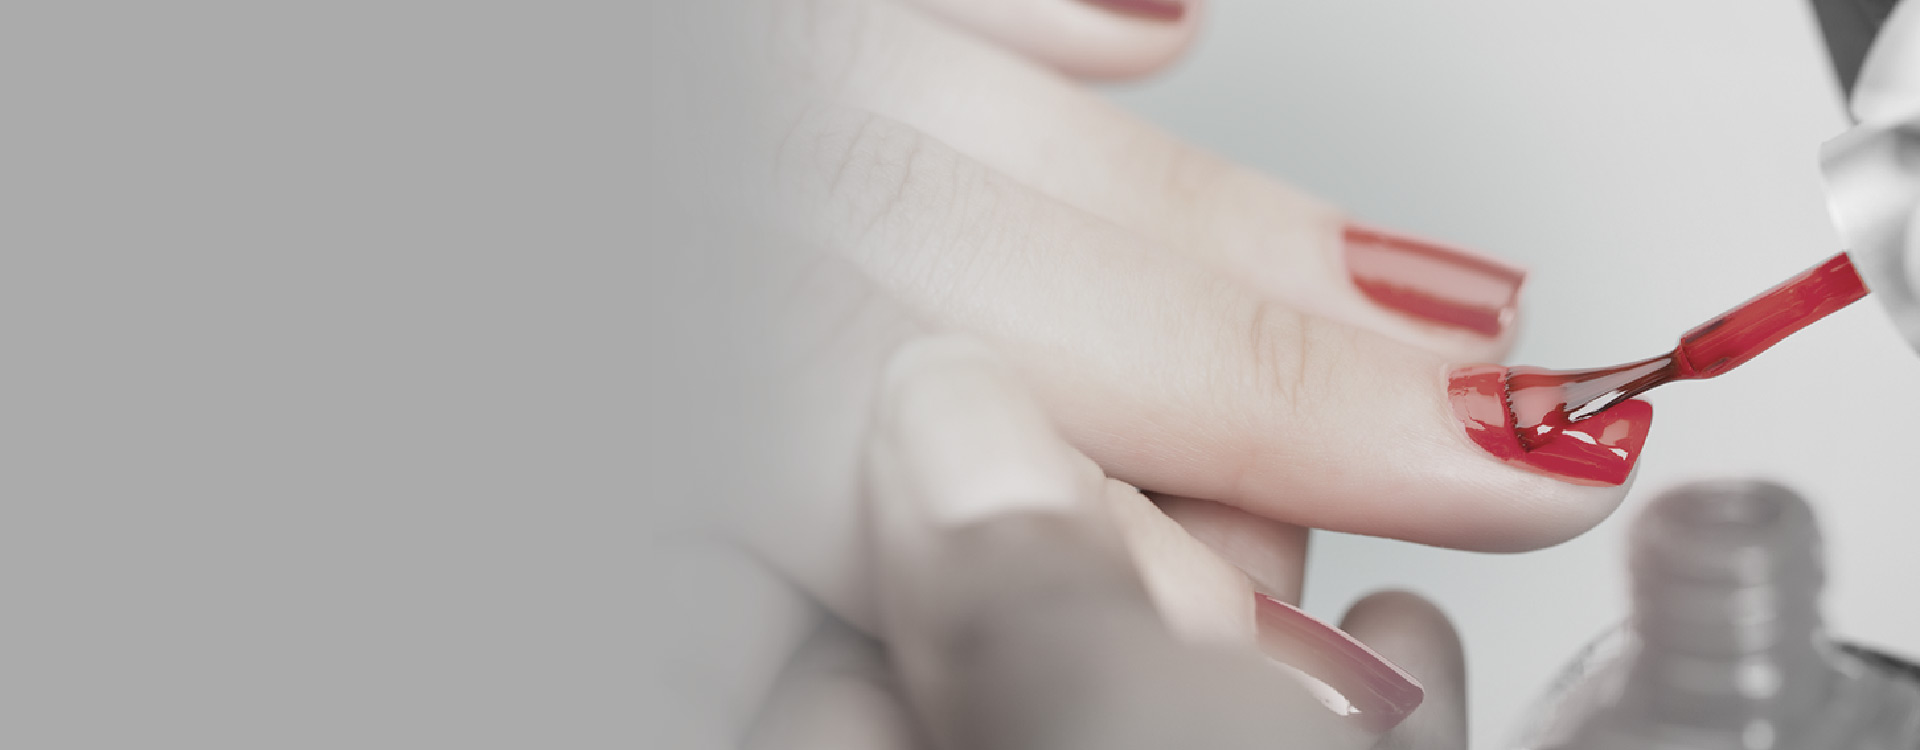
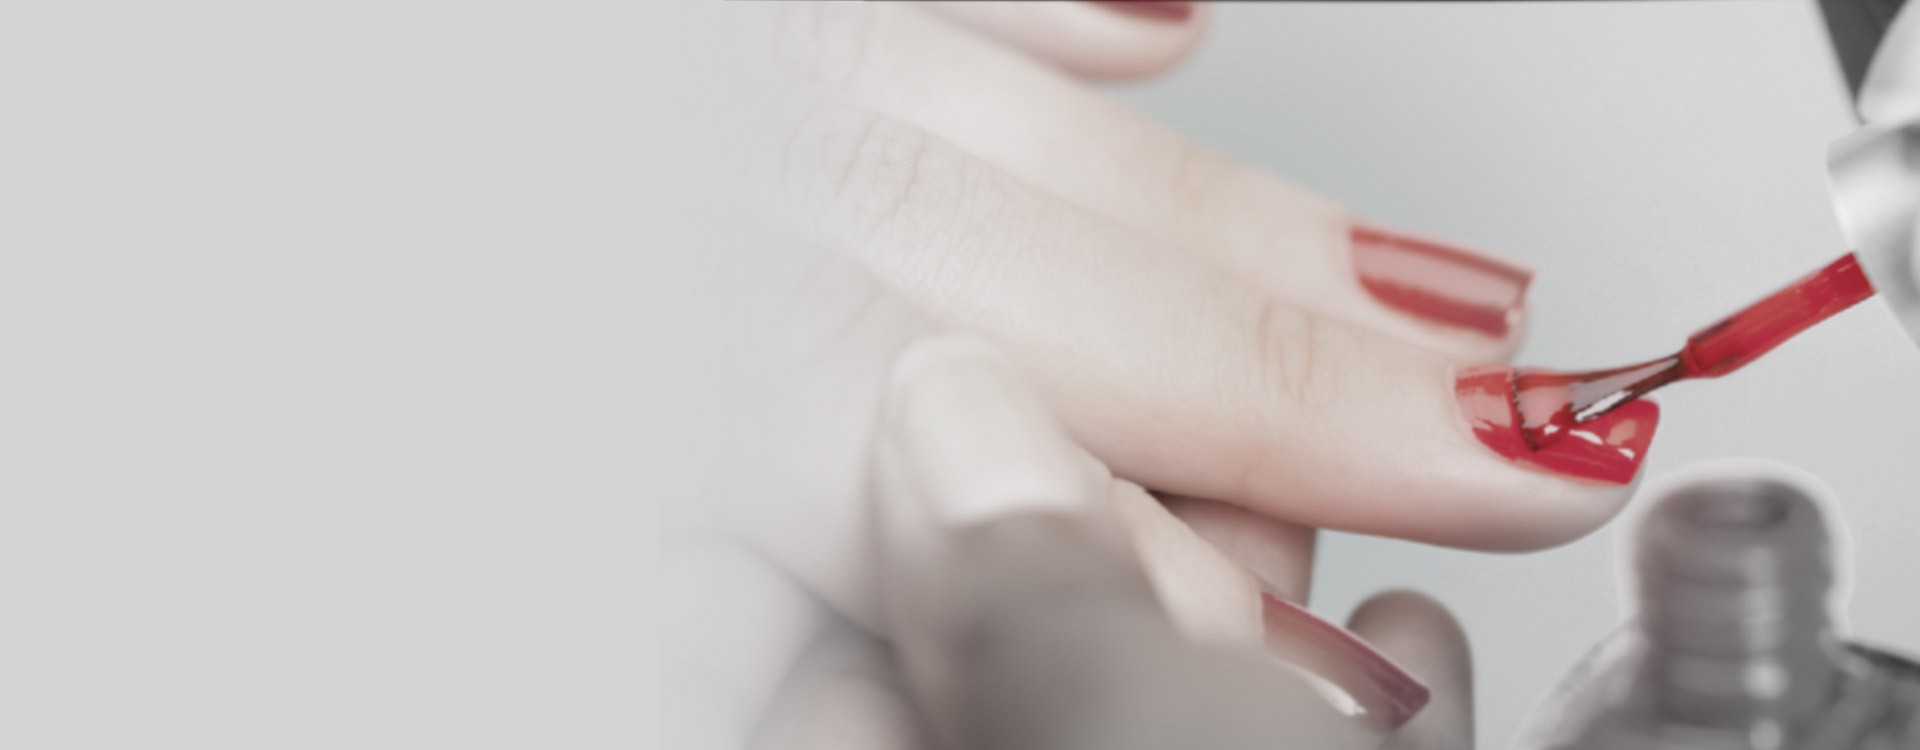
Created new organic page and styles

diff --git a/app/assets/stylesheets/services.scss b/app/assets/stylesheets/services.scss
@@ -62,18 +62,15 @@
 
 // Manicure & Pedicure Service Page
 #mani-pedi{
-  background-image: url('/assets/manicure-pedi-service-img2.jpg');
+  background-image: url('/assets/manicure-pedi-service-img.jpg');
   background-repeat: no-repeat;
   background-attachment: scroll;
   background-position: center;
   background-size: cover;
   height: 70vh;
   .mani-pedi-bg-text{
-    margin: 0 auto;
     h1{
       margin: 0px;
-      background: #fff;
-      padding: 25px 30px;
     }
   } 
 }
@@ -100,6 +97,49 @@
       }
     }
     .service-1, .service-2, .service-3{
+      margin-top: 5%;
+    }
+  }
+}
+
+
+//Organic Services
+#organic{
+  background-image: url('/assets/manicure-pedi-org-2.jpg');
+  background-repeat: no-repeat;
+  background-attachment: scroll;
+  background-position: center;
+  background-size: cover;
+  height: 70vh;
+  .organic-bg-text{
+    h1{
+      margin: 0px;
+    }
+  } 
+}
+#organic-services{
+  .service-intro{
+    margin-top:10%;
+    p{
+      font-size: 18px;
+      text-align: center;
+    }
+    hr{
+      margin-top: 10%;
+      height: 2px;
+      background: #cecece;
+    }
+  }
+  .services{
+    .prices{
+      margin: 0px;
+      padding: 0px;
+      p{
+        display: inline-block;
+        font-size: 18px;
+      }
+    }
+    .service-1, .service-2{
       margin-top: 5%;
     }
   }
